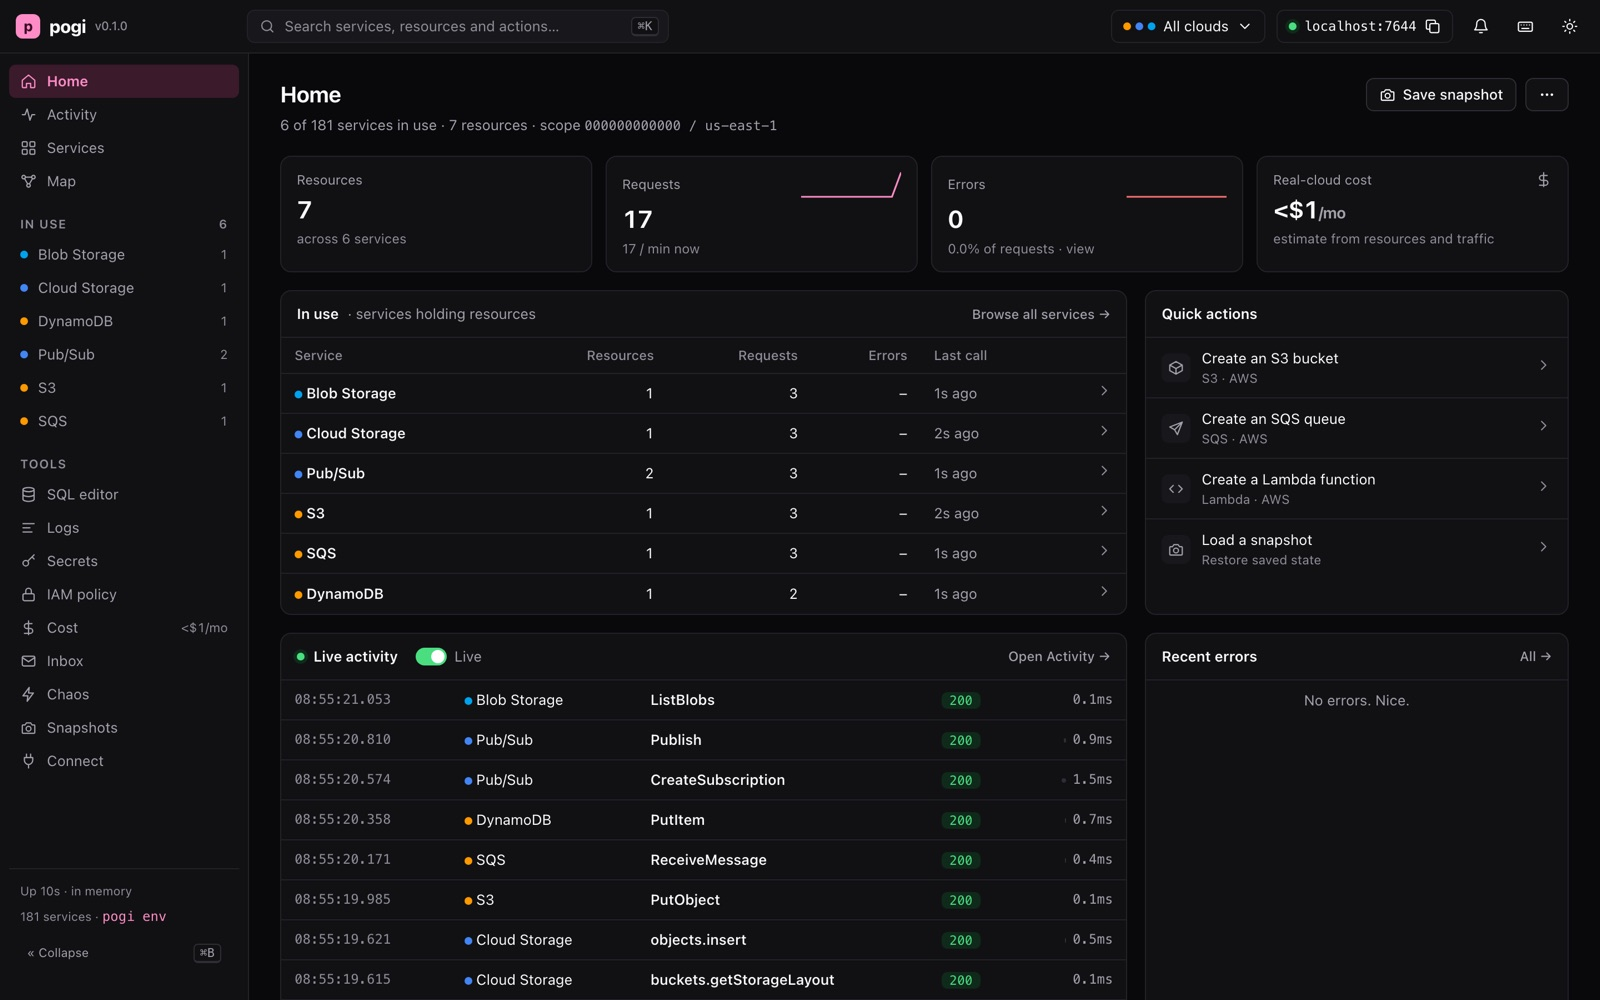
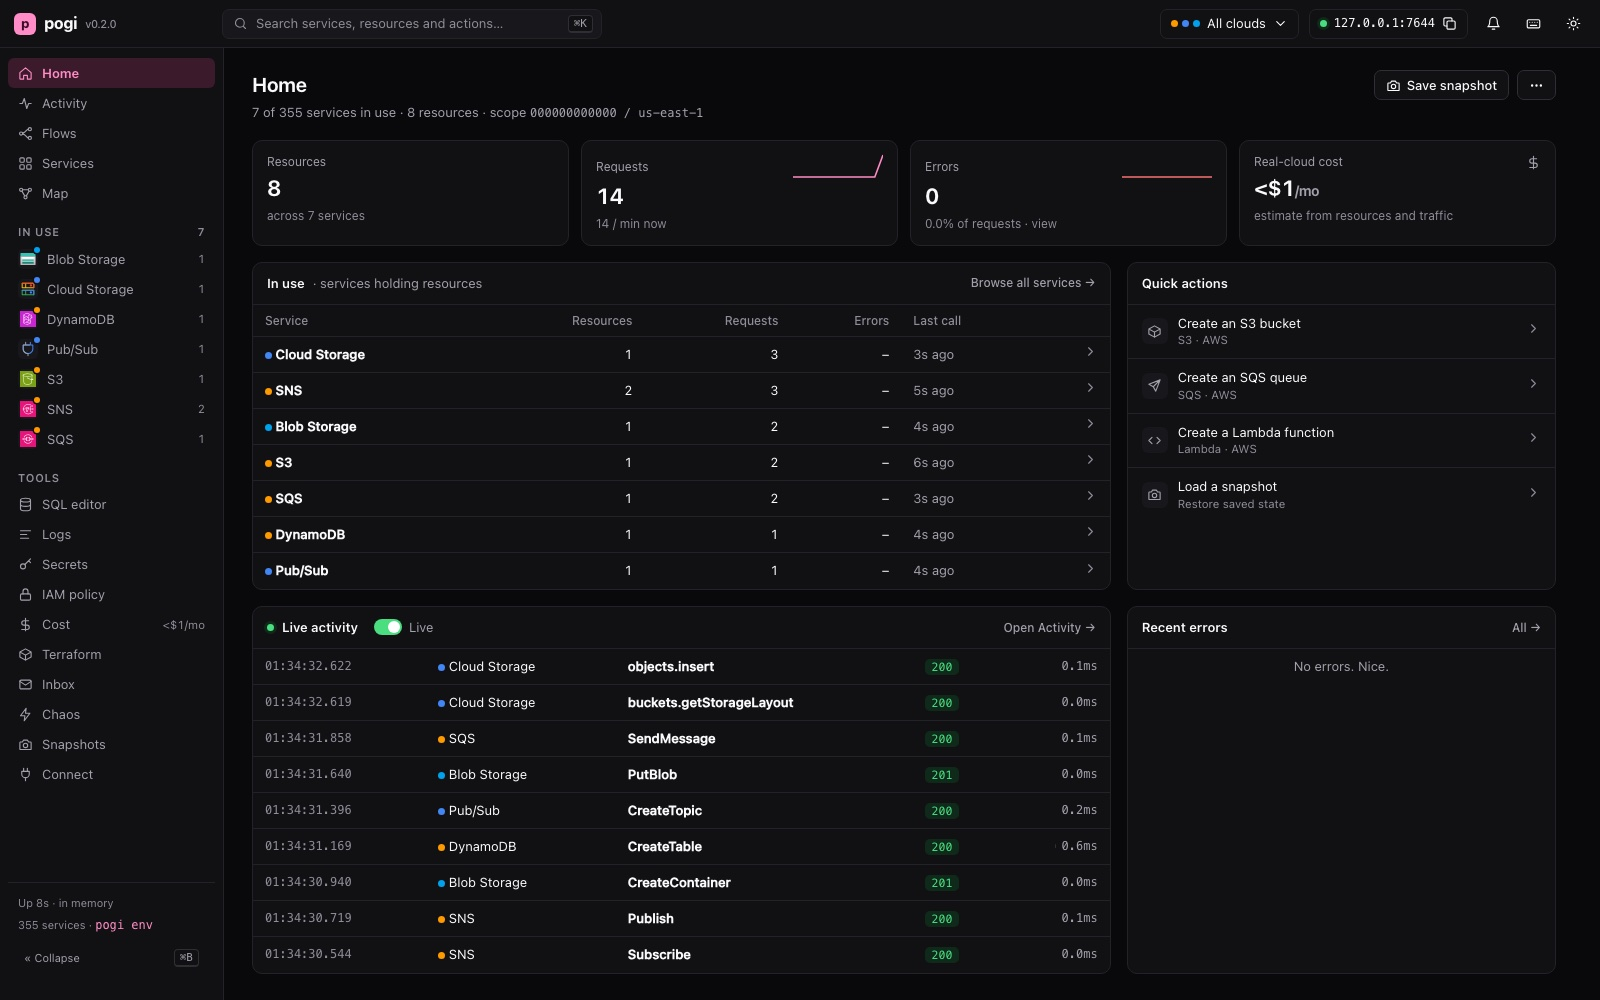
pogi v0.2.0: faster start-up, a new demo GIF and console shots
Google API documents are decoded on first use instead of at start (start-up 84 -> 48 ms). The README's GIF, console screenshots and benchmark numbers now show v0.2.0.

diff --git a/internal/gcp/generic/engine.go b/internal/gcp/generic/engine.go
@@ -105,9 +105,11 @@ type api struct {
 	e     *entry
 	hub   *core.Hub
 	ops   *gapi.Ops
-	meth  []*method
 	hooks hooks
-	base  string // https://<host>/<prefix>/<version>/, for selfLink
+
+	compiled sync.Once // meth and base are built on the API's first request, not at start
+	meth     []*method
+	base     string // https://<host>/<prefix>/<version>/, for selfLink
 
 	mu   sync.Mutex
 	objs map[string]map[string]any // the path after the version -> resource
@@ -115,19 +117,28 @@ type api struct {
 }
 
 func newAPI(h *core.Hub, e *entry) *api {
-	a := &api{e: e, hub: h, ops: gapi.Operations(h), base: e.d.RootURL + e.version + "/"}
+	a := &api{e: e, hub: h, ops: gapi.Operations(h)}
 	a.hooks = apiHooks[e.name]
-	e.d.walk(func(dm *dmethod) {
-		if first, _, _ := strings.Cut(cmp.Or(dm.FlatPath, dm.Path), "/"); !gapiVersion(first) {
-			a.base = e.d.RootURL + first + "/" + e.version + "/" // dns.googleapis.com/dns/v1/
-		}
-		if m := compile(e, dm); m != nil {
-			a.meth = append(a.meth, m)
-		}
-	})
-	slices.SortStableFunc(a.meth, func(x, y *method) int { return y.lits - x.lits }) // the most specific path first
 	a.Reset()
 	return a
+}
+
+// build compiles the API's methods from its document, once. Every request goes through find, which
+// calls it, so pogi starts without decoding any document.
+func (a *api) build() {
+	a.compiled.Do(func() {
+		e, d := a.e, a.e.doc()
+		a.base = d.RootURL + e.version + "/"
+		d.walk(func(dm *dmethod) {
+			if first, _, _ := strings.Cut(cmp.Or(dm.FlatPath, dm.Path), "/"); !gapiVersion(first) {
+				a.base = d.RootURL + first + "/" + e.version + "/" // dns.googleapis.com/dns/v1/
+			}
+			if m := compile(e, dm); m != nil {
+				a.meth = append(a.meth, m)
+			}
+		})
+		slices.SortStableFunc(a.meth, func(x, y *method) int { return y.lits - x.lits }) // the most specific path first
+	})
 }
 
 // compile turns a discovery method into a matcher. Its path loses the API's own prefix ("dns/"),
@@ -182,6 +193,7 @@ func (a *api) find(r *http.Request) (*method, []string) {
 	if len(segs) < 2 || segs[0] != a.e.version {
 		return nil, nil
 	}
+	a.build()
 	segs = segs[1:]
 	verb := ""
 	if last := segs[len(segs)-1]; strings.Contains(last, ":") {
@@ -310,7 +322,7 @@ func (a *api) dispatch(c *call) (any, error) {
 // ---- schemas ----
 
 func (a *api) schema(n string) *schema {
-	if s := a.e.d.Schemas[n]; s != nil {
+	if s := a.e.doc().Schemas[n]; s != nil {
 		return s
 	}
 	return &schema{}

diff --git a/internal/gcp/generic/discovery.go b/internal/gcp/generic/discovery.go
@@ -6,7 +6,6 @@ import (
 	"encoding/json"
 	"fmt"
 	"maps"
-	"net/url"
 	"slices"
 	"strings"
 	"sync"
@@ -52,11 +51,12 @@ type schema struct {
 	Items        *schema
 }
 
-// entry is one line of apis.txt with its document.
+// entry is one line of apis.txt. Its document is decoded on first use: decoding all 80-odd at start
+// took most of pogi's start-up time.
 type entry struct {
 	name, version, tf, title, label string
 	svc                             string // the registry name: the API's name, unless another cloud's service has it (config is AWS Config)
-	d                               *doc
+	doc                             func() *doc
 }
 
 // entries are the listed APIs; a bad list or document is a bug in the build, so it panics.
@@ -75,24 +75,30 @@ var entries = sync.OnceValue(func() []*entry {
 		if f[0] == "config" {
 			e.svc = "gcpconfig"
 		}
-		f2, err := docFS.Open("docs/" + e.name + "-" + e.version + ".json.gz")
-		if err != nil {
-			panic(fmt.Sprintf("gcp/generic: %v (run go generate ./internal/gcp/generic)", err))
-		}
-		zr, err := gzip.NewReader(f2)
-		if err == nil {
-			err = json.NewDecoder(zr).Decode(&e.d)
-		}
-		f2.Close()
-		if err != nil {
-			panic(fmt.Sprintf("gcp/generic: %s %s: %v", e.name, e.version, err))
-		}
-		u, _ := url.Parse(e.d.RootURL)
-		e.label, _, _ = strings.Cut(u.Host, ".") // https://file.googleapis.com/ -> file
+		e.label = e.name // every listed API is at https://<name>.googleapis.com/; TestDocsDecode checks it
+		e.doc = sync.OnceValue(func() *doc { return loadDoc(e.name, e.version) })
 		out = append(out, e)
 	}
 	return out
 })
+
+// loadDoc decodes an API's embedded discovery document.
+func loadDoc(name, version string) *doc {
+	f, err := docFS.Open("docs/" + name + "-" + version + ".json.gz")
+	if err != nil {
+		panic(fmt.Sprintf("gcp/generic: %v (run go generate ./internal/gcp/generic)", err))
+	}
+	defer f.Close()
+	var d *doc
+	zr, err := gzip.NewReader(f)
+	if err == nil {
+		err = json.NewDecoder(zr).Decode(&d)
+	}
+	if err != nil {
+		panic(fmt.Sprintf("gcp/generic: %s %s: %v", name, version, err))
+	}
+	return d
+}
 
 // walk calls f for every method of the document.
 func (d *doc) walk(f func(*dmethod)) {

diff --git a/internal/gcp/generic/discovery_test.go b/internal/gcp/generic/discovery_test.go
@@ -1,0 +1,28 @@
+package generic
+
+import (
+	"net/url"
+	"strings"
+	"testing"
+)
+
+// pogi registers each API at start by its name, without decoding its document (that took most of the
+// start-up time). That is only right while every listed API lives at https://<name>.googleapis.com/.
+// This decodes every document and checks it, so a new API with another host fails here, not in routing.
+func TestDocsDecode(t *testing.T) {
+	es := entries()
+	if len(es) == 0 {
+		t.Fatal("apis.txt lists no API")
+	}
+	for _, e := range es {
+		d := e.doc()
+		u, err := url.Parse(d.RootURL)
+		if err != nil {
+			t.Errorf("%s: rootUrl %q: %v", e.name, d.RootURL, err)
+			continue
+		}
+		if host, _, _ := strings.Cut(u.Host, "."); host != e.label {
+			t.Errorf("%s: document host %q, but pogi registers it as %q: add a label to apis.txt", e.name, host, e.label)
+		}
+	}
+}

diff --git a/README.md b/README.md
@@ -26,10 +26,10 @@
 </p>
 
 <p align="center">
-  <img src="docs/images/demo.gif" width="880" alt="Typing pogi opens its terminal screen. Calls from the AWS, Google Cloud and Azure CLIs fill the dashboard, then the Requests tab lists each one: S3, SQS, DynamoDB, Cloud Storage, Pub/Sub and Blob Storage, all answering 200 or 201.">
+  <img src="docs/images/demo.gif" width="880" alt="Typing pogi opens its terminal screen. Calls from the AWS, Google Cloud and Azure CLIs fill the Overview with the services in use and recent calls. The Requests tab lists all 14 calls to S3, SQS, SNS, DynamoDB, Cloud Storage, Pub/Sub and Blob Storage, each answering 200 or 201. The Flows tab shows the hand-offs between services, such as an SNS message delivered to an SQS queue.">
 </p>
 
-pogi runs AWS, Google Cloud and Azure on your laptop. Point your SDKs, the cloud CLIs, Terraform or the CDK at it, and they work the way they do against the real cloud: no account, no bill, and nothing leaves your machine. It is one program on one port, and it starts in about 25 ms. It covers <!-- count:total -->355 services: 144 AWS (88 with real behavior, 56 Thin), 108 Google Cloud (25 with real behavior, 83 Thin) and 103 Azure (29 with real behavior, 74 Thin)<!-- /count -->. A Thin service keeps your resources and reads them back, but nothing runs behind them.
+pogi runs AWS, Google Cloud and Azure on your laptop. Point your SDKs, the cloud CLIs, Terraform or the CDK at it, and they work the way they do against the real cloud: no account, no bill, and nothing leaves your machine. It is one program on one port, and it starts in about 50 ms. It covers <!-- count:total -->355 services: 144 AWS (88 with real behavior, 56 Thin), 108 Google Cloud (25 with real behavior, 83 Thin) and 103 Azure (29 with real behavior, 74 Thin)<!-- /count -->. A Thin service keeps your resources and reads them back, but nothing runs behind them.
 
 > [!NOTE]
 > pogi is new, at version 0.x. Flags, config keys and APIs may still change between releases, and the [changelog](CHANGELOG.md) lists every change.
@@ -82,7 +82,7 @@ Your own code needs nothing more. Only the endpoint and the credentials change, 
 
 <picture>
   <source media="(prefers-color-scheme: dark)" srcset="docs/images/console-dark.jpg">
-  <img src="docs/images/console-light.jpg" alt="The pogi web console's Home page: six services in use across AWS, Google Cloud and Azure, request and error counts, a rough real-cloud cost, and a live list of calls.">
+  <img src="docs/images/console-light.jpg" alt="The pogi web console's Home page: seven services in use across AWS, Google Cloud and Azure, each with its icon, request and error counts, a rough real-cloud cost, and a live list of calls.">
 </picture>
 
 While pogi runs, the web console at `http://localhost:7644/_pogi/` shows what your code did:

diff --git a/docs/reference/benchmarks.md b/docs/reference/benchmarks.md
@@ -5,25 +5,28 @@ description: How pogi's start-up time, memory and speed were measured, and on wh
 
 # Benchmarks
 
-pogi's website quotes the numbers below. All of them were measured on 2026-10-16 on an Apple M5
-with 32 GB of memory, using the pogi v0.1.0 release build. The machine was also running other work at the time, so
-a quiet machine may do better. Your numbers will differ with your machine.
+pogi's website quotes the numbers below. All of them were measured on 2026-10-24 on an Apple M5
+with 32 GB of memory, using a v0.2.0 build made the way the release build makes it (`-trimpath -s -w`). The machine
+was also running other work at the time, so a quiet machine may do better. Your numbers will differ with your machine.
+
+v0.2.0 starts about twice as slowly as v0.1.0 (about 25 ms) and uses more memory, because it runs many more
+services and its program is larger.
 
 | Measure | Result | How |
 |---|---|---|
-| Start-up time | about 25 ms | `pogi start` with default flags, timed from launch to the `Ready.` line, warm (after one run that pays the operating system's first-launch check). Each run in a fresh shell and a fresh data folder. Median of 6 runs: 23 ms. |
-| Memory at idle | about 64 MB | Resident memory (`ps -o rss`) half a second after `Ready.`. Median of 10 runs. |
+| Start-up time | about 50 ms | `pogi start` with default flags, timed from launch to the `Ready.` line, warm (after one run that pays the operating system's first-launch check). Each run in a fresh shell and a fresh data folder. Median of 6 runs: 48 ms. |
+| Memory at idle | about 75 MB | Resident memory (`ps -o rss`) half a second after `Ready.`. Median of 10 runs. |
 | Writes per second | about 20,000 | 20,000 signed DynamoDB `PutItem` calls over localhost, 8 at a time, with `ab` (ApacheBench), after a 2,000-call warm-up. No failed calls. |
-| Memory under load | about 140 MB | Resident memory right after that burst. |
+| Memory under load | about 150 MB | Resident memory right after that burst. |
 | One call, start to finish | about 0.1 ms | The same call with `ab -c 1`, 5,000 calls, mean time per call. |
 
 ## Download size
 
 | File | Size |
 |---|---|
-| Release binary (`-trimpath -s -w`, as the release build makes it) | 77.6 MB |
-| Release download (`.tar.gz`) | 27.0 MB |
-| A plain `go build` (keeps debug symbols) | 109.7 MB |
+| Release binary (`-trimpath -s -w`, as the release build makes it) | 84.0 MB |
+| Release download (`.tar.gz` of that binary) | 29.9 MB |
+| A plain `go build` (keeps debug symbols) | 117.6 MB |
 
 ## Run it yourself
 
